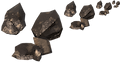
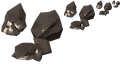
Icône de l'ilménite, ronde 7 : matière ramenée sur J7 (critique indépendante « presque »)
Défauts de la v1 : des plages beiges en aplat, qui font granit ou biscuit et que J7 n'a pas ; un bosselage qui
émiette les reflets bronze ; une tablette claire isolée. Correctifs : part de bronze plafonnée à 0,30, relief à
0,15 au lieu de 0,35, brun J7 exact (0,15 0,11 0,085), morceaux à 1,15. Même graine, mêmes compositions.
Rendu par le verrou (128 échantillons). check_gisement : 7 OK, mutants 10/10 ; harnais data : 0 violation,
code 0. Hors moteur seulement, sans verdict du DC.
Page et CRITIQUE.md : fo-logs/2026-10-30_RETOUR-MATIN/ICONES-MINERAIS/ilmenite/

diff --git a/tools/render/pieces/ressources/icone_ilmenite.py b/tools/render/pieces/ressources/icone_ilmenite.py
@@ -45,13 +45,16 @@ PIECE = {"name": "icone-ilmenite", "variants": {"J7": {}}, "margin_px": 32}
 PAS_IC = 6.0          # écart entre deux cellules, en tuiles
 PX = 256.0            # pixels par tuile du rendu des icônes
 GRAINE = 7307
-GROS = 1.10       # morceaux grossis (ronde 6 : à 32 px, le jour entre les morceaux mangeait le cadre)
+GROS = 1.15       # (1,10 avant la ronde 7) morceaux grossis (ronde 6 : à 32 px, le jour entre les morceaux mangeait le cadre)
 RUGOSITE = 0.22   # reflets plus nets que J7 (0,26) : arêtes claires des icônes vanilla
 FICHIERS = ("icone.png", "icone-1.png", "icone-2.png", "icone-3.png")
 
 # Matières : couleurs J7 (directions.MAT["ilmenite_k"], ["ilmenite_bronze"], valeurs linéaires)
-BRUN = (0.11, 0.078, 0.058)
+BRUN = (0.15, 0.11, 0.085)    # brun J7 exact (ronde 7, critique : le brun plus sombre noyait l'icône à 32 px)
 BRONZE = (0.33, 0.22, 0.14)
+BRONZE_MAX = 0.30   # part de bronze au plus dans une plage (ronde 7 : à 1,0, les plages beiges en aplat se lisaient
+                    # « granit » ou « biscuit », absentes de J7 ; le bronze de J7 est dans les REFLETS, pas en taches)
+RELIEF = 0.15       # force du bosselage (ronde 7 : 0,35 émiettait les grands reflets bronze de J7 en grain)
 # Compositions (tuiles de jeu, y vers le sud, relatives au centre de la cellule) : (x, y, taille, bosse, part de bronze)
 #   bosse : None ou (angle en degrés, taille relative) d'une bosse soudée (amas J7 : tête et 1 bosse) ;
 #   tablettes : (x, y, longueur, largeur, inclinaison en degrés, azimut en degrés).
@@ -98,6 +101,7 @@ def _matiere(S, nom, part_bronze):
     mb = N.new("ShaderNodeMapRange")
     mb.inputs["From Min"].default_value = 0.64 - 0.22 * part_bronze
     mb.inputs["From Max"].default_value = 0.72 - 0.22 * part_bronze
+    mb.inputs["To Max"].default_value = BRONZE_MAX
     L.new(nb.outputs["Fac"], mb.inputs["Value"])
     # grain fin de la couleur (comme mat_metal : ±22 %)
     ng = N.new("ShaderNodeTexNoise")
@@ -136,7 +140,7 @@ def _matiere(S, nom, part_bronze):
     # rugosité et métal : J7 (0,26 ; 0,62) sur le brun, bronze (0,32 ; 0,65)
     rr = N.new("ShaderNodeMapRange")
     rr.inputs["To Min"].default_value = RUGOSITE
-    rr.inputs["To Max"].default_value = RUGOSITE + 0.06
+    rr.inputs["To Max"].default_value = RUGOSITE + 0.06 * BRONZE_MAX
     L.new(mb.outputs["Result"], rr.inputs["Value"])
     L.new(rr.outputs["Result"], p.inputs["Roughness"])
     p.inputs["Metallic"].default_value = 0.72
@@ -160,7 +164,7 @@ def _matiere(S, nom, part_bronze):
     ad.inputs[1].default_value = 0.5
     L.new(nr.outputs["Fac"], ad.inputs[2])
     bu = N.new("ShaderNodeBump")
-    bu.inputs["Strength"].default_value = 0.35
+    bu.inputs["Strength"].default_value = RELIEF
     bu.inputs["Distance"].default_value = 0.012
     L.new(ad.outputs["Value"], bu.inputs["Height"])
     L.new(bu.outputs["Normal"], p.inputs["Normal"])
